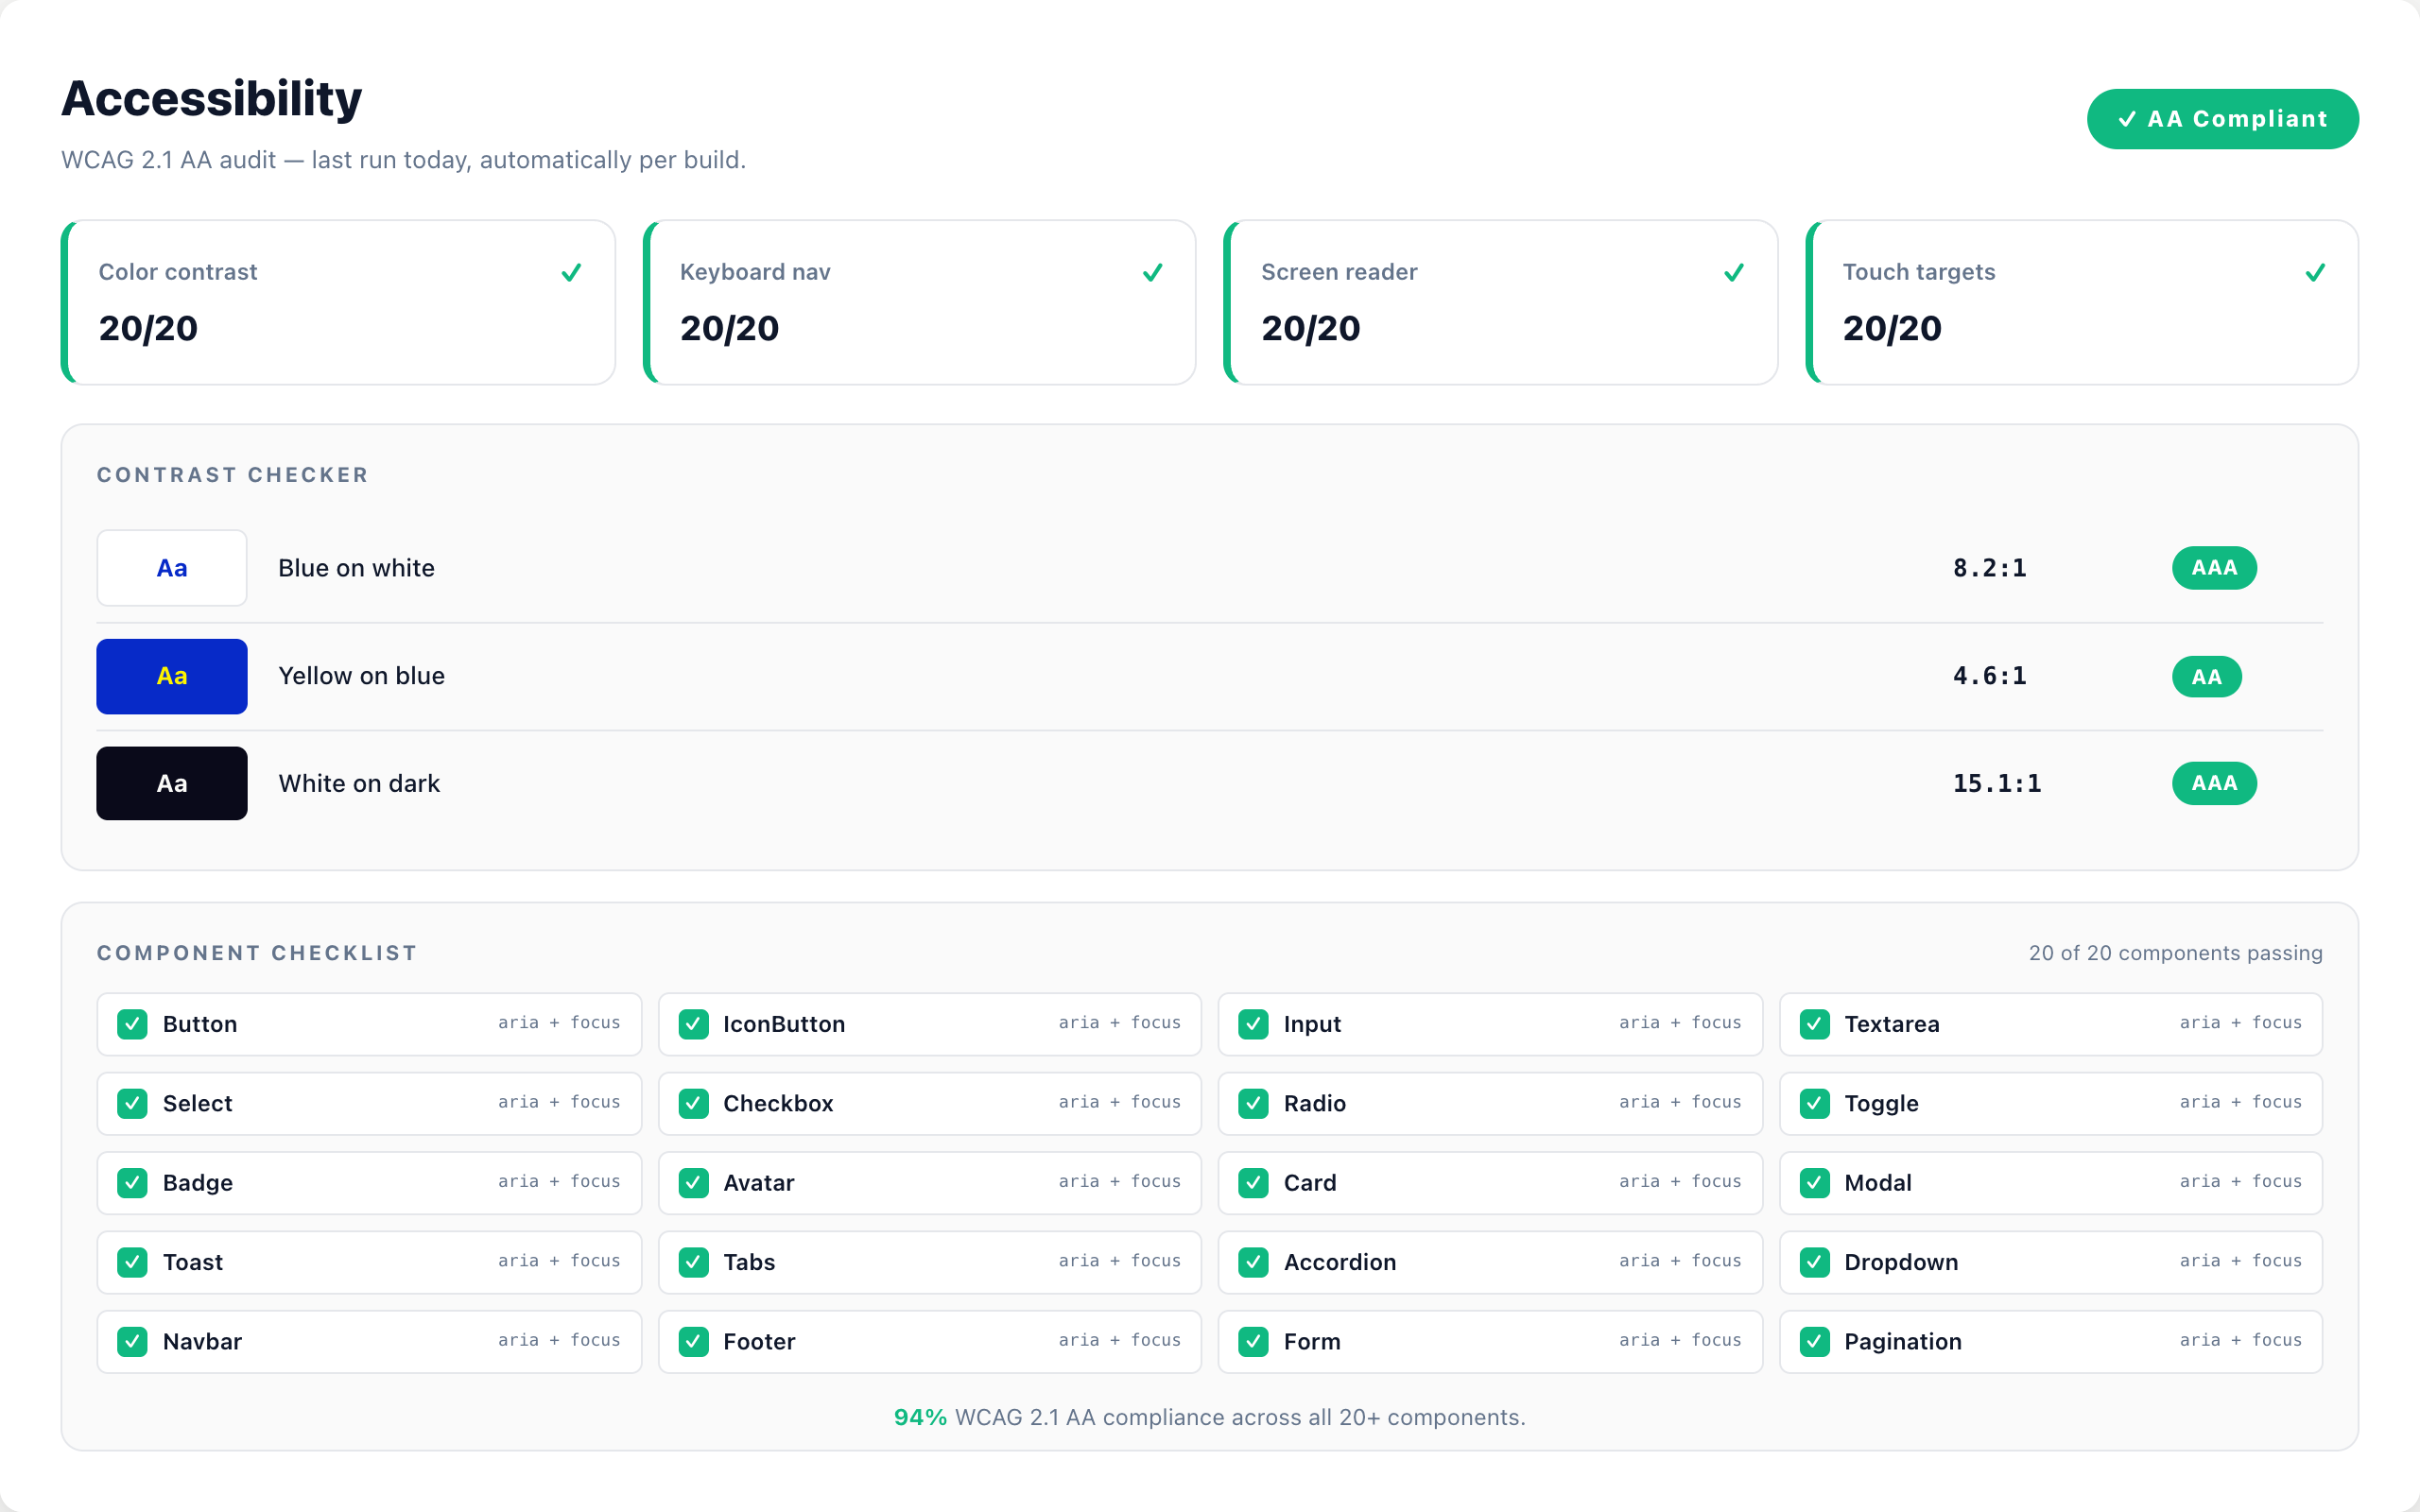
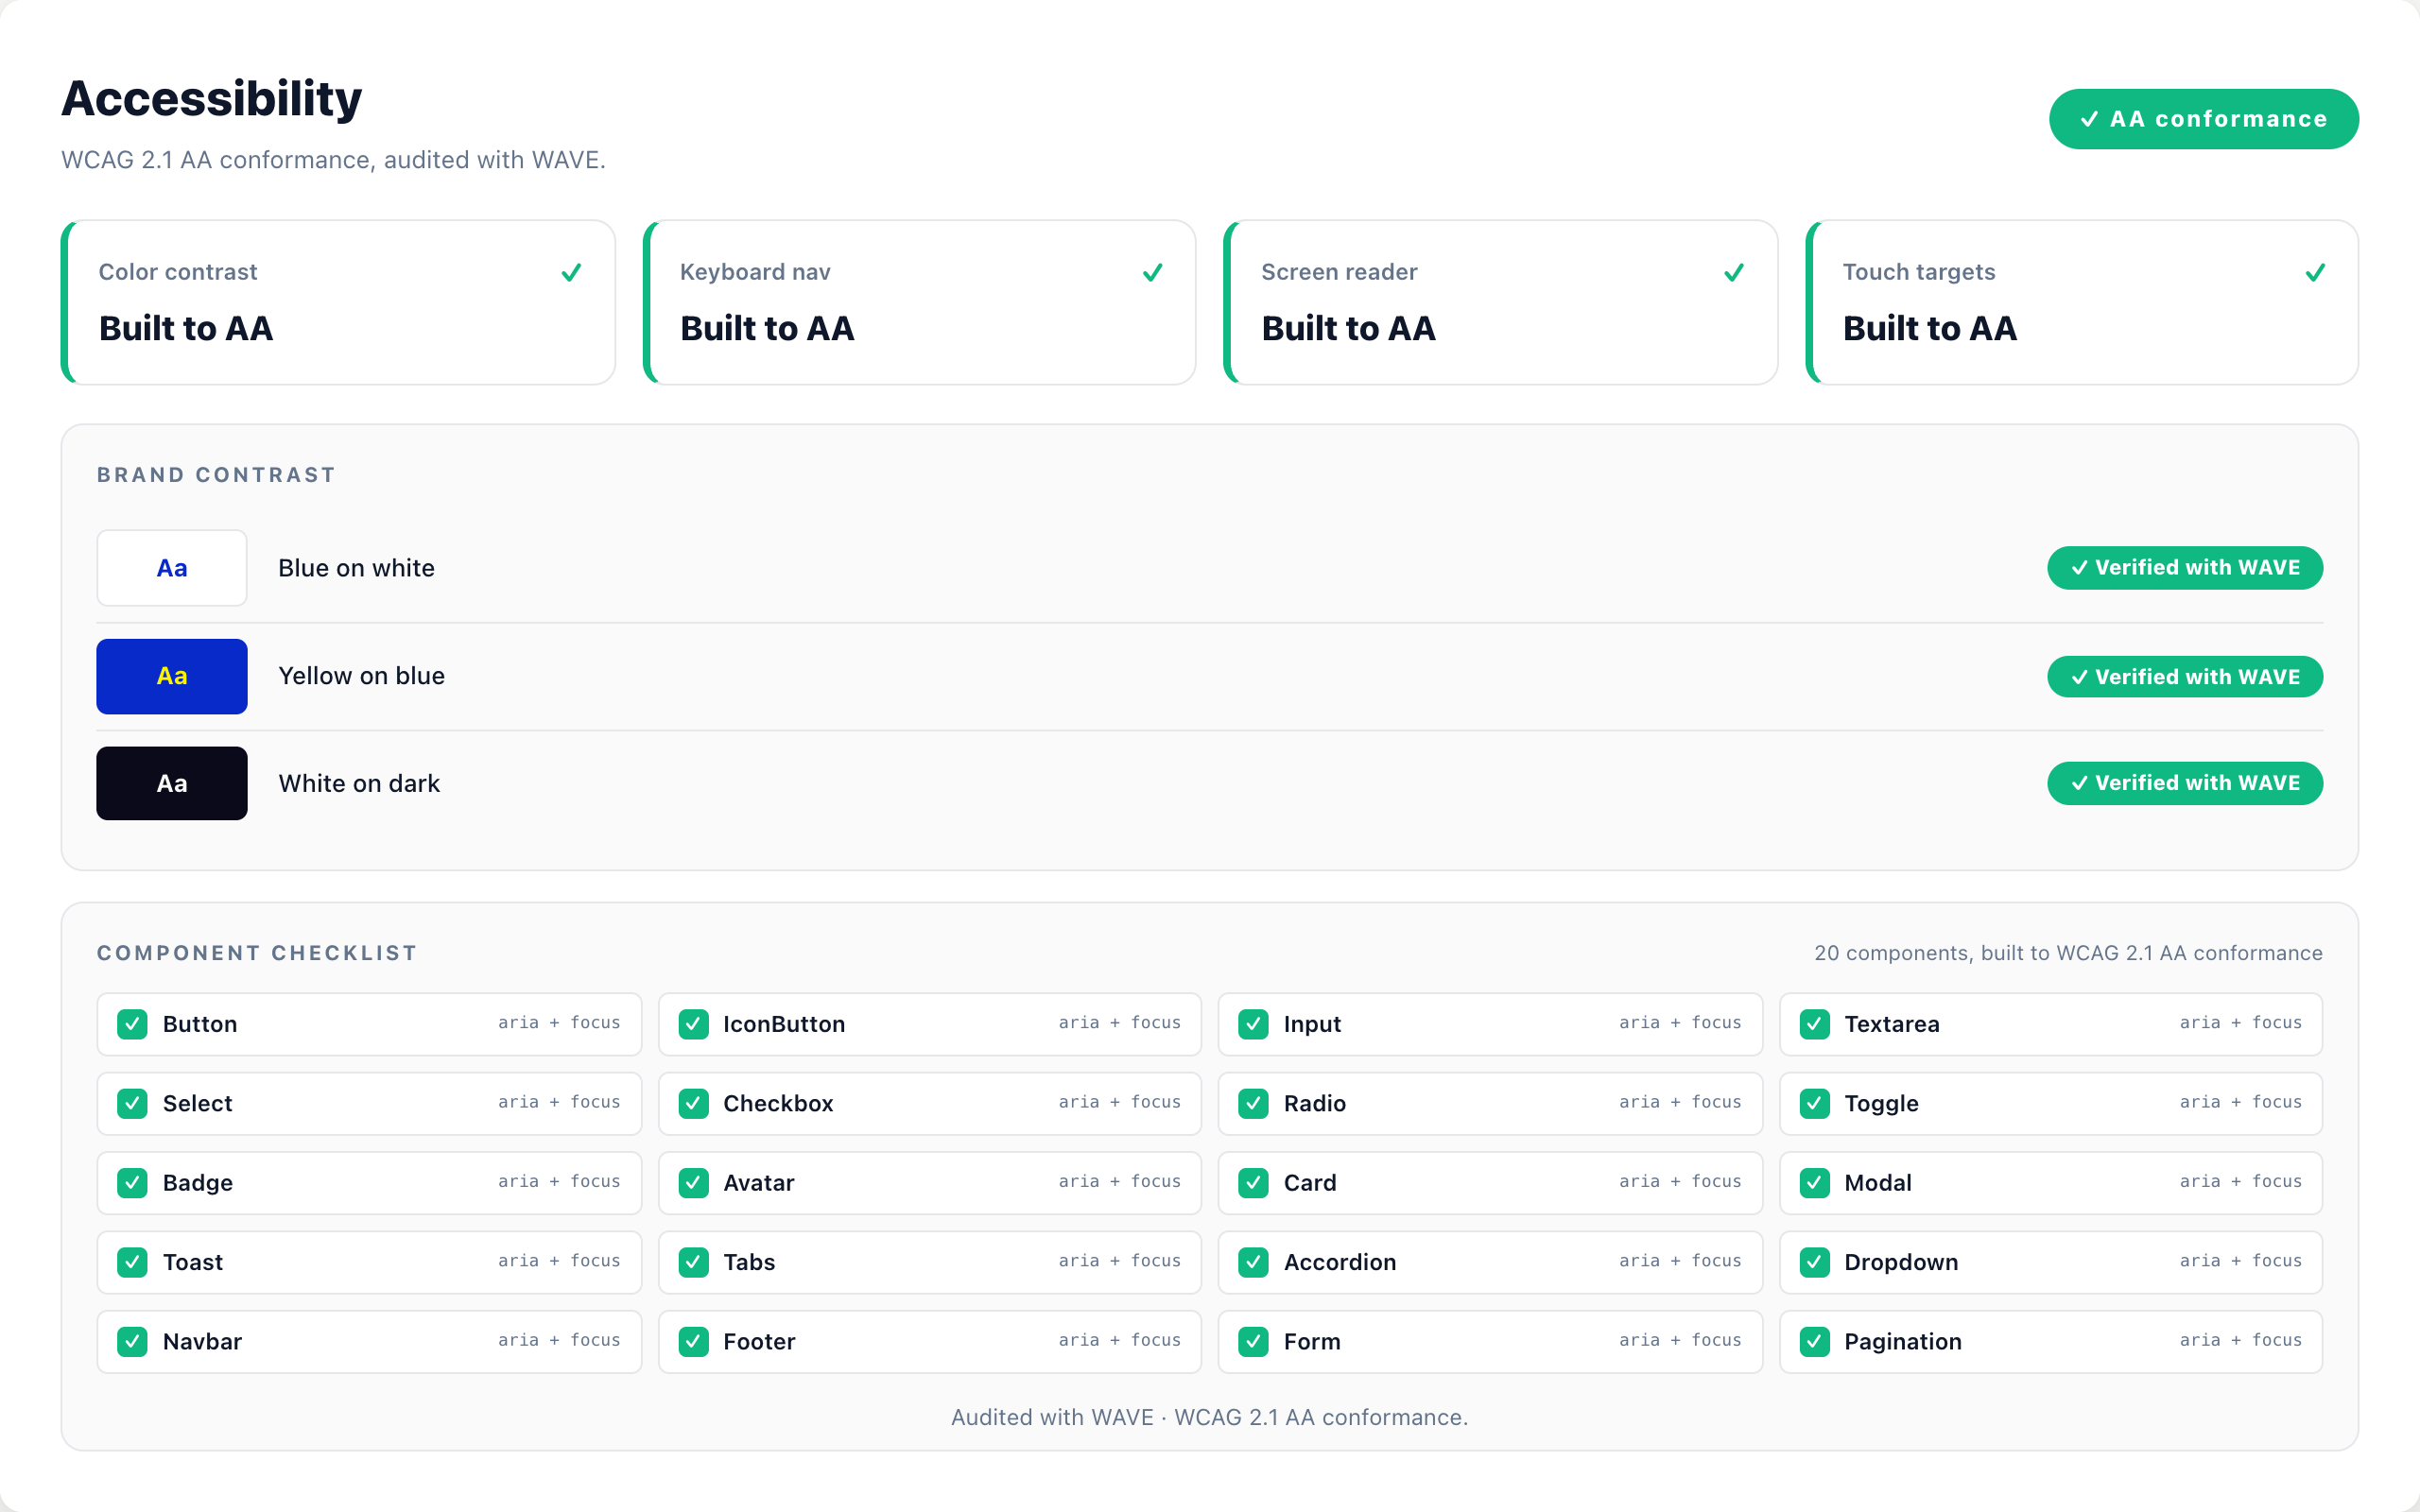
A4 + A6: stale comment, WCAG/WAVE wording, honest BEYOND audit mockup
A4:
- data/projects.ts header comment listed a removed 4th project
  (relocateme); corrected to the real 3-project array

A6 Finding 3 (WCAG attributed to WAVE everywhere it's rendered):
- BEYOND metric tile: "WCAG 2.1 Compliance" -> "WCAG 2.1 conformance,
  audited with WAVE"
- Beauty metric tile: "Accessibility" -> "Conformance, audited with WAVE"
- BEYOND screen-3 caption: "...compliance audit panel" -> "WCAG 2.1 AA
  conformance, audited with WAVE"
- "compliance" -> "conformance" everywhere it appears in rendered copy

A6 Finding (new): BEYOND audit mockup carried fabricated claims, now honest
- app/mockups/beyond-skincare/page.tsx: drop the fabricated "94%" (the same
  number A1 removed from the homepage; it also contradicted the 20/20 counts
  on-screen), remove the invented contrast ratios (verified inaccurate to the
  real palette), remove the invented 20/20 per-category counts (now plain
  check + "Built to AA"), and remove the "automatically per build" automation
  claim (no CI a11y pipeline existed; BEYOND was audited manually with WAVE)
- Re-captured screen-3.png from /mockups/beyond-skincare so the case study
  shows the corrected audit panel (verified rendering)
- Swept the Mini Pancake and Beauty mockups: no fabricated metrics found

Note: CountUpStat.tsx, ScrollReveal.tsx, CustomCursor.tsx, NoiseOverlay.tsx
are present untracked in the working tree (an external process keeps
restoring them) but were deleted in A3 and are intentionally NOT staged here.
[…]

diff --git a/app/mockups/beyond-skincare/page.tsx b/app/mockups/beyond-skincare/page.tsx
@@ -266,21 +266,21 @@ function AccessibilityScreen() {
       <div style={{ display: 'flex', alignItems: 'center', justifyContent: 'space-between', marginBottom: 22 }}>
         <div>
           <h2 style={{ fontSize: 26, fontWeight: 800, color: TEXT_INK, margin: 0 }}>Accessibility</h2>
-          <p style={{ fontSize: 13, color: TEXT_DIM, margin: '4px 0 0' }}>WCAG 2.1 AA audit — last run today, automatically per build.</p>
+          <p style={{ fontSize: 13, color: TEXT_DIM, margin: '4px 0 0' }}>WCAG 2.1 AA conformance, audited with WAVE.</p>
         </div>
         <span style={{
           background: SUCCESS, color: '#fff', padding: '7px 16px', borderRadius: 999,
           fontSize: 12, fontWeight: 800, letterSpacing: 1,
-        }}>✓ AA Compliant</span>
+        }}>✓ AA conformance</span>
       </div>
 
-      {/* 4 compliance tiles */}
+      {/* 4 conformance tiles */}
       <div style={{ display: 'grid', gridTemplateColumns: 'repeat(4, 1fr)', gap: 14, marginBottom: 20 }}>
         {[
-          { l: 'Color contrast',   v: '20/20' },
-          { l: 'Keyboard nav',     v: '20/20' },
-          { l: 'Screen reader',    v: '20/20' },
-          { l: 'Touch targets',    v: '20/20' },
+          { l: 'Color contrast',   v: 'Built to AA' },
+          { l: 'Keyboard nav',     v: 'Built to AA' },
+          { l: 'Screen reader',    v: 'Built to AA' },
+          { l: 'Touch targets',    v: 'Built to AA' },
         ].map(t => (
           <div key={t.l} style={{
             background: '#fff', borderRadius: 12, padding: 16,
@@ -295,16 +295,16 @@ function AccessibilityScreen() {
         ))}
       </div>
 
-      {/* Contrast checker */}
+      {/* Brand contrast pairs, verified with WAVE (no invented ratios) */}
       <div style={{ background: '#FAFAFA', borderRadius: 12, padding: 18, border: `1px solid ${RULE}`, marginBottom: 16 }}>
-        <p style={{ fontSize: 11, fontWeight: 700, color: TEXT_DIM, letterSpacing: 1.5, textTransform: 'uppercase', margin: '0 0 12px' }}>Contrast checker</p>
+        <p style={{ fontSize: 11, fontWeight: 700, color: TEXT_DIM, letterSpacing: 1.5, textTransform: 'uppercase', margin: '0 0 12px' }}>Brand contrast</p>
         {[
-          { fg: '#072AC8', bg: '#FFFFFF', name: 'Blue on white',  ratio: '8.2:1',  grade: 'AAA' },
-          { fg: '#FCF300', bg: '#072AC8', name: 'Yellow on blue', ratio: '4.6:1',  grade: 'AA'  },
-          { fg: '#FAFAF8', bg: '#0A0A1A', name: 'White on dark',  ratio: '15.1:1', grade: 'AAA' },
+          { fg: '#072AC8', bg: '#FFFFFF', name: 'Blue on white'  },
+          { fg: '#FCF300', bg: '#072AC8', name: 'Yellow on blue' },
+          { fg: '#FAFAF8', bg: '#0A0A1A', name: 'White on dark'  },
         ].map(c => (
           <div key={c.name} style={{
-            display: 'grid', gridTemplateColumns: '80px 1fr 100px 80px',
+            display: 'grid', gridTemplateColumns: '80px 1fr auto',
             alignItems: 'center', gap: 16,
             padding: '8px 0', borderTop: c.name !== 'Blue on white' ? `1px solid ${RULE}` : 'none',
           }}>
@@ -313,11 +313,10 @@ function AccessibilityScreen() {
               fontSize: 13, fontWeight: 700, textAlign: 'center', border: c.bg === '#FFFFFF' ? `1px solid ${RULE}` : 'none',
             }}>Aa</div>
             <span style={{ fontSize: 13, color: TEXT_INK, fontWeight: 500 }}>{c.name}</span>
-            <span style={{ fontSize: 13, fontWeight: 700, color: TEXT_INK, fontFamily: 'ui-monospace, monospace' }}>{c.ratio}</span>
             <span style={{
-              background: SUCCESS, color: '#fff', padding: '3px 10px', borderRadius: 999,
+              background: SUCCESS, color: '#fff', padding: '3px 12px', borderRadius: 999,
               fontSize: 11, fontWeight: 800, textAlign: 'center', width: 'fit-content',
-            }}>{c.grade}</span>
+            }}>✓ Verified with WAVE</span>
           </div>
         ))}
       </div>
@@ -326,7 +325,7 @@ function AccessibilityScreen() {
       <div style={{ background: '#FAFAFA', borderRadius: 12, padding: 18, border: `1px solid ${RULE}`, flex: 1, overflow: 'hidden' }}>
         <div style={{ display: 'flex', justifyContent: 'space-between', alignItems: 'center', marginBottom: 12 }}>
           <p style={{ fontSize: 11, fontWeight: 700, color: TEXT_DIM, letterSpacing: 1.5, textTransform: 'uppercase', margin: 0 }}>Component checklist</p>
-          <p style={{ fontSize: 11, color: TEXT_DIM, margin: 0 }}>20 of 20 components passing</p>
+          <p style={{ fontSize: 11, color: TEXT_DIM, margin: 0 }}>20 components, built to WCAG 2.1 AA conformance</p>
         </div>
         <div style={{ display: 'grid', gridTemplateColumns: 'repeat(4, 1fr)', gap: 8 }}>
           {components.map(c => (
@@ -344,7 +343,7 @@ function AccessibilityScreen() {
           ))}
         </div>
         <p style={{ fontSize: 12, color: TEXT_DIM, margin: '14px 0 0', textAlign: 'center' }}>
-          <strong style={{ color: SUCCESS }}>94%</strong> WCAG 2.1 AA compliance across all 20+ components.
+          Audited with WAVE · WCAG 2.1 AA conformance.
         </p>
       </div>
     </div>

diff --git a/data/projects.ts b/data/projects.ts
@@ -1,8 +1,8 @@
 import type { Project, ProcessStep, SkillsMap } from '@/lib/types'
 
 /**
- * Project order matches the Work-section grid order in the redesign spec:
- *   [mini-pancake-co, beyond-skincare, beauty-by-amy, relocateme]
+ * Project order matches the Work-section grid order:
+ *   [mini-pancake-co, beyond-skincare, beauty-by-amy]
  *
  * The first entry is `featured: true` and renders the deep-dive pivots
  * structure on its case-study page.
@@ -261,7 +261,7 @@ export const projects: Project[] = [
     images: [
       { src: '/projects/beyond-skincare/screen-1.png', alt: 'BEYOND design system, button variants in primary, secondary, and CTA styles', caption: 'Component library, button variants across all states' },
       { src: '/projects/beyond-skincare/screen-2.png', alt: 'Light and dark theme comparison of the same product card',                    caption: 'Token-driven light and dark theme comparison'           },
-      { src: '/projects/beyond-skincare/screen-3.png', alt: 'WCAG accessibility audit panel with contrast checker and component checklist', caption: 'WCAG 2.1 AA compliance audit panel'                     },
+      { src: '/projects/beyond-skincare/screen-3.png', alt: 'WCAG accessibility audit panel with contrast checker and component checklist', caption: 'WCAG 2.1 AA conformance, audited with WAVE'             },
     ],
 
     /* Showcase-first hero. Outcome pays off the light/dark side-by-side
@@ -381,7 +381,7 @@ export const projects: Project[] = [
 
     metrics: [
       { value: '20+',  label: 'Documented Components' },
-      { value: 'AA',   label: 'WCAG 2.1 Compliance' },
+      { value: 'AA',   label: 'WCAG 2.1 conformance, audited with WAVE' },
       { value: '2',    label: 'Themes (Light / Dark)' },
       { value: '100%', label: 'Token-Driven UI' },
     ],
@@ -535,7 +535,7 @@ export const projects: Project[] = [
       { value: '5-step',   label: 'Booking Wizard'   },
       { value: '4 tabs',   label: 'Admin Dashboard'  },
       { value: '2 themes', label: 'Light + Dark'     },
-      { value: 'WCAG AA', label: 'Accessibility'    },
+      { value: 'WCAG AA', label: 'Conformance, audited with WAVE' },
     ],
 
     learnings: [